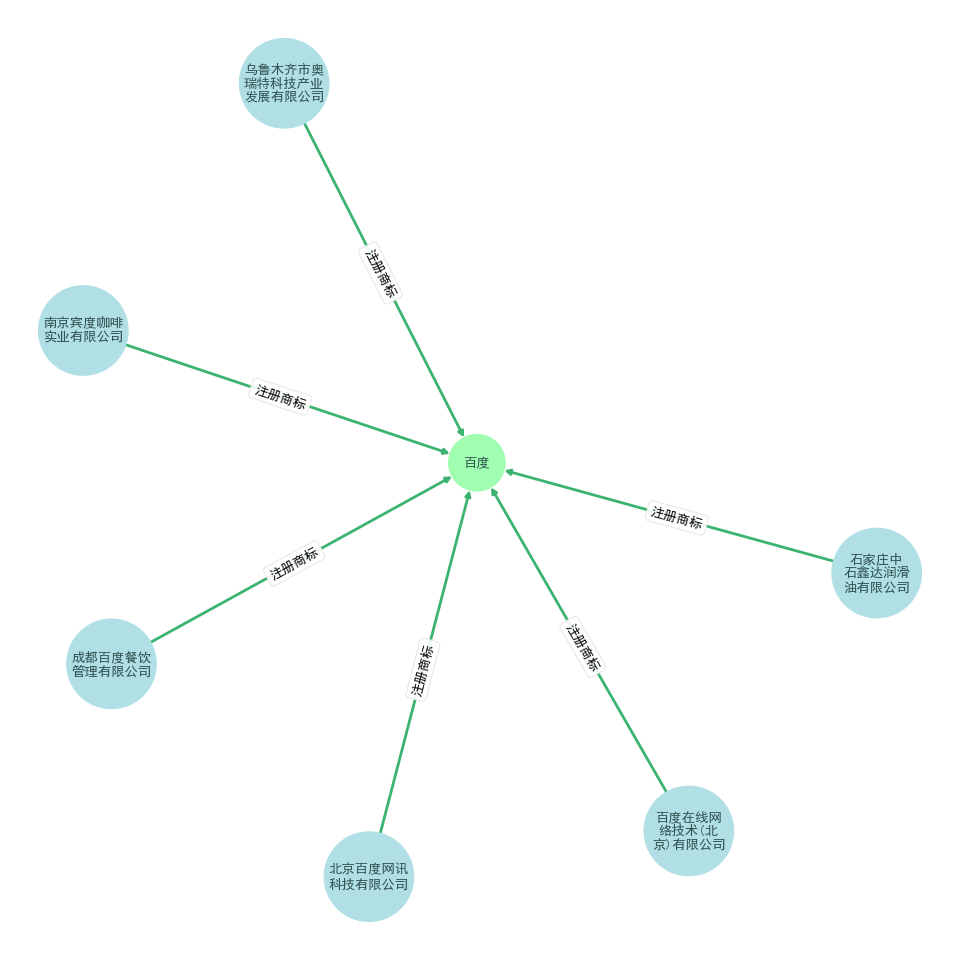
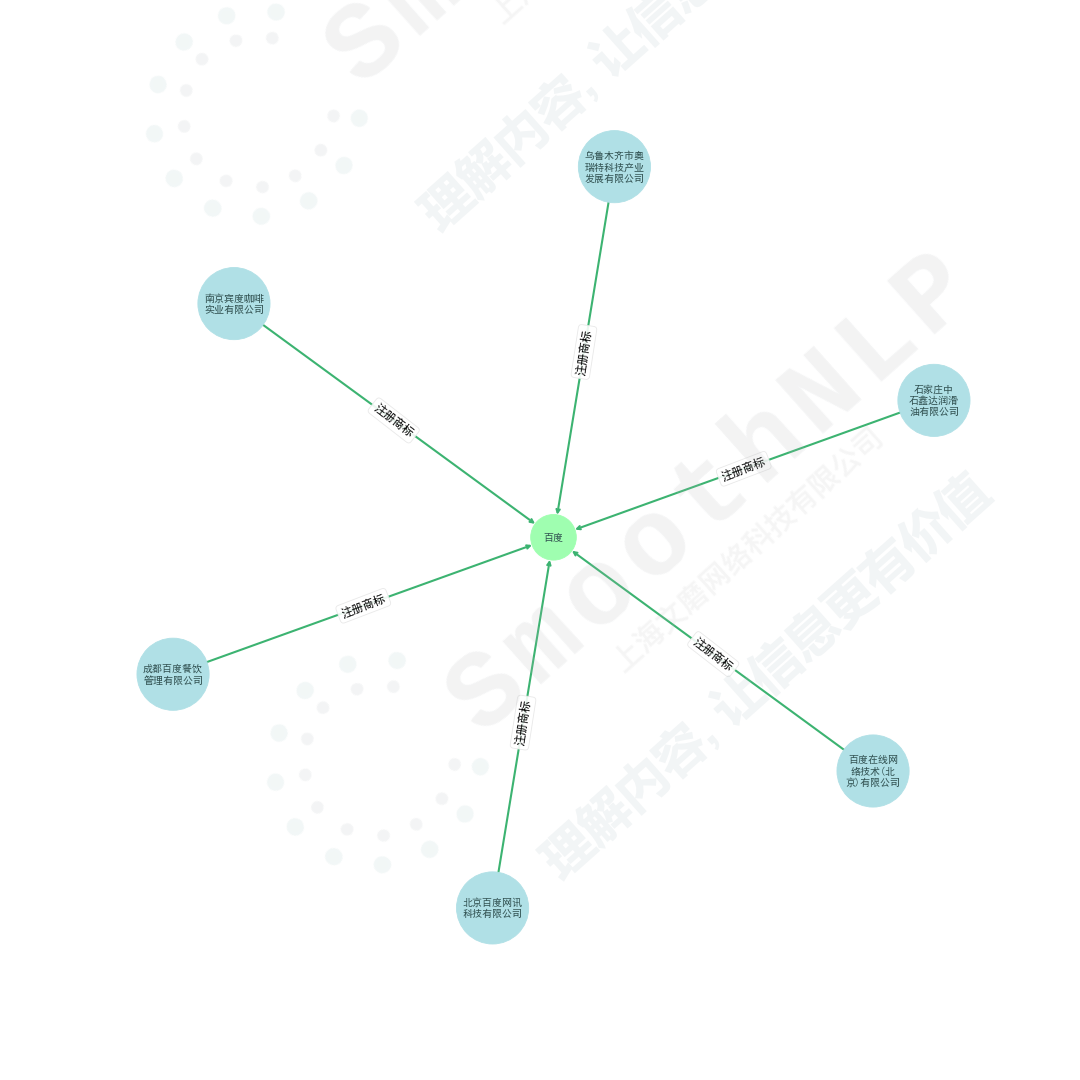
add watermark

diff --git a/xiushang/visual.py b/xiushang/visual.py
@@ -1,6 +1,7 @@
 import networkx as nx
 import math
 import numpy as np
+import pkg_resources
 import unicodedata
 import matplotlib.pyplot as plt
 import matplotlib.font_manager as font_manager
@@ -108,9 +109,12 @@ def draw_graph(G,edges_dic,width,height,save_path=None):
     nodesize = {k:min(len(k), 5) * 1500 for k in G.nodes}
     
     ## 控制fig大小
-    if len(node_labels)>32:
+    if len(node_labels)>36:
         width, height = len(node_labels)*0.5,len(node_labels)*0.5
     fig = plt.figure(figsize = (width, height),dpi=80)
+    ## 添加水印
+    wm_img = plt.imread(pkg_resources.resource_filename('xiushang', 'resources/')+'watermark.png')
+    fig.figimage(wm_img,alpha=0.15)
     ## draw nodes
     nx.draw_networkx_nodes(G, pos, 
                        node_color=[pattern_dic[t] for t in nx.get_node_attributes(G, "type").values()], 
@@ -122,6 +126,8 @@ def draw_graph(G,edges_dic,width,height,save_path=None):
 
     ax = plt.gca()
     for k,v_lst in edges_dic.items():
+#         if set([v[3] for v in v_lst])==set(['注册商标']):  ## edge内容为“注册商标”时去重
+#             v_lst = v_lst[:1]
         num_edge = len(v_lst)
         for v in v_lst:
             # middle control point of quadratic Bezier curve is located at the same distance
@@ -150,13 +156,15 @@ def draw_graph(G,edges_dic,width,height,save_path=None):
                         horizontalalignment='center',verticalalignment='center',
                         rotation=trans_angle,transform=ax.transData,
                         bbox=dict(boxstyle="round", fc="w", ec='0.9', alpha=0.9))
+    for key, spine in ax.spines.items():  ## 删除边框
+        spine.set_visible(False)
     if save_path:
         plt.savefig(save_path)
     plt.show()
     return 
 
    
-def graph_visual(rels,width:int=16,height:int=16,save_path=None):
+def graph_visual(rels,width:int=18,height:int=18,save_path=None):
     """
     :param rels: list or dict
     :param width, height: 窗口尺寸
@@ -167,10 +175,9 @@ def graph_visual(rels,width:int=16,height:int=16,save_path=None):
         for dic in rels:
             dic["source_type"] = dic.pop("source_flag")
             dic["target_type"] = dic.pop("target_flag")
-    elif type(rels)==list:
-        G, edges_dic = rel2graph(rels)
-    else:
-        raise ValueError("Invalid input type of {}").format(type(rels))
+    elif type(rels)!=list:
+        raise ValueError("Invalid input type of "+str(type(rels)))
+    G, edges_dic = rel2graph(rels)
     if len(G)<=0:             ## 处理空的Graph
         return
     if len(G)>40:
@@ -179,7 +186,7 @@ def graph_visual(rels,width:int=16,height:int=16,save_path=None):
     return 
    
    
-def composedgraph_visual(rels,width:int=16,height:int=16,save_path=None):
+def composedgraph_visual(rels,width:int=18,height:int=18,save_path=None):
     """
     :param rels: list of list/ list of dict
     :param width, height: 窗口尺寸
@@ -193,7 +200,7 @@ def composedgraph_visual(rels,width:int=16,height:int=16,save_path=None):
                 dic["source_type"] = dic.pop("source_flag")
                 dic["target_type"] = dic.pop("target_flag")
         elif type(rel)!=list:
-            raise ValueError("Invalid input type of {}").format(type(rel))
+            raise ValueError("Invalid input type of "+str(type(rels)))
         g, edges_dic1 = rel2graph(rel)
         graphs.append(g)
         edges_dic.update(edges_dic1)
